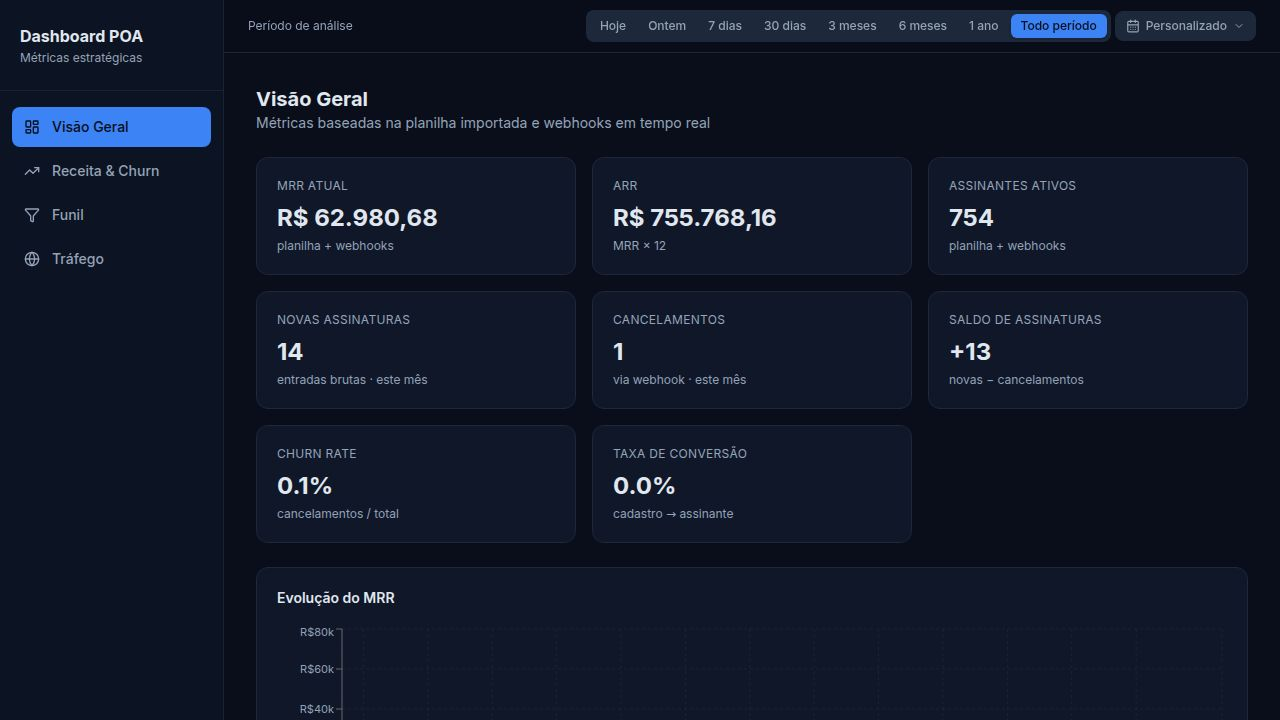
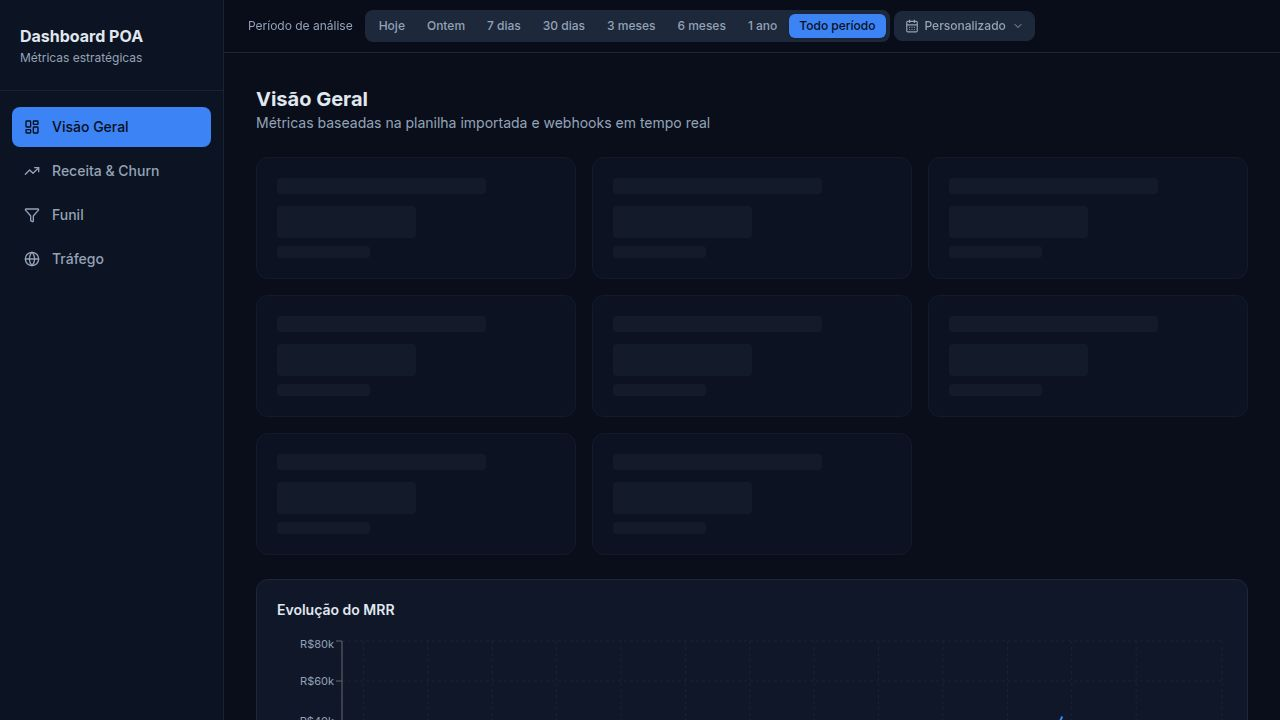
Improve dashboard usability and appearance on mobile devices
Update UI components and layout for enhanced mobile responsiveness, including a collapsible sidebar, horizontally scrollable elements, and adjusted card layouts.

Replit-Commit-Author: Agent
Replit-Commit-Session-Id: 1dc96fea-091c-44fa-9b36-eb0fa8ade81c
Replit-Commit-Checkpoint-Type: full_checkpoint
Replit-Commit-Event-Id: e012f599-3605-456d-950a-0a8acb6417d7
Replit-Commit-Screenshot-Url: https://storage.googleapis.com/screenshot-production-us-central1/f1076739-fb7f-4fb6-9d8d-a42dc68417ab/1dc96fea-091c-44fa-9b36-eb0fa8ade81c/fql3grY
Replit-Helium-Checkpoint-Created: true

diff --git a/artifacts/poa-dashboard/src/pages/Revenue.tsx b/artifacts/poa-dashboard/src/pages/Revenue.tsx
@@ -66,52 +66,52 @@ export default function Revenue() {
       )}
 
       {/* ── Summary row (image 1) ─────────────────────────────────── */}
-      <div className="grid grid-cols-1 md:grid-cols-3 gap-4">
-        <div className="bg-card border border-card-border rounded-xl p-6 flex flex-col items-center justify-center text-center gap-2">
+      <div className="grid grid-cols-1 sm:grid-cols-3 gap-3 sm:gap-4">
+        <div className="bg-card border border-card-border rounded-xl p-4 sm:p-6 flex flex-col items-center justify-center text-center gap-1 sm:gap-2">
           {isLoading ? (
             <div className="h-8 w-40 bg-muted rounded animate-pulse" />
           ) : (
             <>
-              <p className="text-xs font-semibold text-muted-foreground tracking-widest uppercase">MRR Total Adquirido</p>
-              <p className="text-3xl font-bold text-foreground tabular-nums">
+              <p className="text-[10px] sm:text-xs font-semibold text-muted-foreground tracking-widest uppercase">MRR Total Adquirido</p>
+              <p className="text-xl sm:text-3xl font-bold text-foreground tabular-nums">
                 {d ? formatBRL(d.totalRevenue) : "—"}
               </p>
-              <p className="text-xs text-muted-foreground">soma do MRR de todas as aquisições</p>
+              <p className="text-[10px] sm:text-xs text-muted-foreground">soma do MRR de todas as aquisições</p>
             </>
           )}
         </div>
 
-        <div className="bg-card border border-card-border rounded-xl p-6 flex flex-col items-center justify-center text-center gap-2">
+        <div className="bg-card border border-card-border rounded-xl p-4 sm:p-6 flex flex-col items-center justify-center text-center gap-1 sm:gap-2">
           {isLoading ? (
             <div className="h-8 w-24 bg-muted rounded animate-pulse" />
           ) : (
             <>
-              <p className="text-xs font-semibold text-muted-foreground tracking-widest uppercase">Assinantes Pagantes</p>
-              <p className="text-3xl font-bold text-foreground tabular-nums">
+              <p className="text-[10px] sm:text-xs font-semibold text-muted-foreground tracking-widest uppercase">Assinantes Pagantes</p>
+              <p className="text-xl sm:text-3xl font-bold text-foreground tabular-nums">
                 {d ? formatNumber(d.totalSubscribers) : "—"}
               </p>
-              <p className="text-xs text-muted-foreground">assinantes ativos</p>
+              <p className="text-[10px] sm:text-xs text-muted-foreground">assinantes ativos</p>
             </>
           )}
         </div>
 
-        <div className="bg-card border border-card-border rounded-xl p-6 flex flex-col items-center justify-center text-center gap-2">
+        <div className="bg-card border border-card-border rounded-xl p-4 sm:p-6 flex flex-col items-center justify-center text-center gap-1 sm:gap-2">
           {isLoading ? (
             <div className="h-8 w-32 bg-muted rounded animate-pulse" />
           ) : (
             <>
-              <p className="text-xs font-semibold text-muted-foreground tracking-widest uppercase">Média por Assinante</p>
-              <p className="text-3xl font-bold text-foreground tabular-nums">
+              <p className="text-[10px] sm:text-xs font-semibold text-muted-foreground tracking-widest uppercase">Média por Assinante</p>
+              <p className="text-xl sm:text-3xl font-bold text-foreground tabular-nums">
                 {d ? formatBRL(d.arpu) : "—"}
               </p>
-              <p className="text-xs text-muted-foreground">receita média mensal</p>
+              <p className="text-[10px] sm:text-xs text-muted-foreground">receita média mensal</p>
             </>
           )}
         </div>
       </div>
 
       {/* ── Churn KPIs ───────────────────────────────────────────── */}
-      <div className="grid grid-cols-2 xl:grid-cols-4 gap-4">
+      <div className="grid grid-cols-1 sm:grid-cols-2 xl:grid-cols-4 gap-3 sm:gap-4">
         <KPICard title="MRR Atual" value={d ? formatBRL(d.mrr) : "—"} loading={isLoading} error={!!hasError} errorMessage={errMsg} />
         <KPICard title="ARR Projetado" value={d ? formatBRL(d.arr) : "—"} loading={isLoading} error={!!hasError} errorMessage={errMsg} />
         <KPICard title="Cancelamentos no Período" value={d ? formatNumber(totalCancellations) : "—"} loading={isLoading} error={!!hasError} errorMessage={errMsg} invertChange />

diff --git a/artifacts/poa-dashboard/src/pages/Traffic.tsx b/artifacts/poa-dashboard/src/pages/Traffic.tsx
@@ -124,7 +124,7 @@ export default function Traffic() {
       )}
 
       {/* KPI Cards */}
-      <div className="grid grid-cols-2 lg:grid-cols-4 gap-4">
+      <div className="grid grid-cols-1 sm:grid-cols-2 lg:grid-cols-4 gap-3 sm:gap-4">
         <KPICard
           title="Total Pageviews"
           value={(d?.stats.pageviews ?? 0).toLocaleString("pt-BR")}
@@ -148,7 +148,7 @@ export default function Traffic() {
       </div>
 
       {/* Visitors Line Chart */}
-      <div className="rounded-xl border border-border bg-card p-6">
+      <div className="rounded-xl border border-border bg-card p-4 sm:p-6">
         <h3 className="text-sm font-semibold text-foreground mb-4">Visitantes ao longo do tempo</h3>
         {isLoading ? (
           <div className="h-64 flex items-center justify-center text-muted-foreground text-sm">Carregando…</div>
@@ -192,9 +192,9 @@ export default function Traffic() {
       </div>
 
       {/* Middle row: Top Pages + UTM Channels */}
-      <div className="grid grid-cols-1 lg:grid-cols-2 gap-4">
+      <div className="grid grid-cols-1 lg:grid-cols-2 gap-3 sm:gap-4">
         {/* Top Pages Table */}
-        <div className="rounded-xl border border-border bg-card p-6">
+        <div className="rounded-xl border border-border bg-card p-4 sm:p-6">
           <h3 className="text-sm font-semibold text-foreground mb-4">Top Páginas</h3>
           {isLoading ? (
             <div className="h-48 flex items-center justify-center text-muted-foreground text-sm">Carregando…</div>
@@ -233,7 +233,7 @@ export default function Traffic() {
         </div>
 
         {/* UTM Channels */}
-        <div className="rounded-xl border border-border bg-card p-6">
+        <div className="rounded-xl border border-border bg-card p-4 sm:p-6">
           <div className="flex items-center justify-between mb-4">
             <h3 className="text-sm font-semibold text-foreground">Canais de Aquisição</h3>
             <div className="flex gap-1">
@@ -287,7 +287,7 @@ export default function Traffic() {
       </div>
 
       {/* World Map */}
-      <div className="rounded-xl border border-border bg-card p-6">
+      <div className="rounded-xl border border-border bg-card p-4 sm:p-6">
         <div className="flex items-center justify-between mb-1">
           <div>
             <h3 className="text-sm font-semibold text-foreground">Visitantes por País</h3>
@@ -323,7 +323,7 @@ export default function Traffic() {
             </button>
           </div>
         </div>
-        <div className="w-full overflow-hidden rounded-lg" style={{ height: 440 }}>
+        <div className="w-full overflow-hidden rounded-lg h-[260px] sm:h-[360px] lg:h-[440px]">
           <ComposableMap
             projectionConfig={{ scale: 160 }}
             style={{ width: "100%", height: "100%" }}
@@ -384,13 +384,13 @@ export default function Traffic() {
       </div>
 
       {/* Hourly Heatmap — 7 days × 24 hours */}
-      <div className="rounded-xl border border-border bg-card p-6">
+      <div className="rounded-xl border border-border bg-card p-4 sm:p-6">
         <h3 className="text-sm font-semibold text-foreground mb-1">Horários de Pico</h3>
         <p className="text-xs text-muted-foreground mb-4">Pageviews por dia da semana e hora (horário de Brasília)</p>
         {isLoading ? (
           <div className="h-32 flex items-center justify-center text-muted-foreground text-sm">Carregando…</div>
         ) : (
-          <div className="overflow-x-auto">
+          <div className="overflow-x-auto scrollbar-hide">
             <div className="min-w-max">
               {/* Hour labels row */}
               <div className="flex gap-px mb-px ml-9">

diff --git a/artifacts/poa-dashboard/src/components/Sidebar.tsx b/artifacts/poa-dashboard/src/components/Sidebar.tsx
@@ -1,5 +1,6 @@
+import { useState, useEffect } from "react";
 import { Link, useLocation } from "wouter";
-import { LayoutDashboard, TrendingUp, Funnel, Globe, Settings } from "lucide-react";
+import { LayoutDashboard, TrendingUp, Funnel, Globe, Settings, Menu, X } from "lucide-react";
 
 const navItems = [
   { label: "Visão Geral", href: "/", icon: LayoutDashboard },
@@ -8,11 +9,11 @@ const navItems = [
   { label: "Tráfego", href: "/traffic", icon: Globe },
 ];
 
-export function Sidebar() {
+function SidebarContent({ onNavigate }: { onNavigate?: () => void }) {
   const [location] = useLocation();
 
   return (
-    <aside className="w-56 min-h-screen bg-sidebar border-r border-sidebar-border flex flex-col">
+    <>
       <div className="px-5 py-6 border-b border-sidebar-border">
         <h1 className="text-base font-bold text-foreground">Dashboard POA</h1>
         <p className="text-xs text-muted-foreground mt-0.5">Métricas estratégicas</p>
@@ -25,6 +26,7 @@ export function Sidebar() {
             <Link
               key={item.href}
               href={item.href}
+              onClick={onNavigate}
               className={`flex items-center gap-3 px-3 py-2.5 rounded-lg text-sm font-medium transition-colors ${
                 isActive
                   ? "bg-primary text-primary-foreground"
@@ -40,6 +42,7 @@ export function Sidebar() {
       <div className="px-3 pb-4 border-t border-sidebar-border pt-3">
         <Link
           href="/admin"
+          onClick={onNavigate}
           className={`flex items-center gap-3 px-3 py-2.5 rounded-lg text-sm font-medium transition-colors ${
             location === "/admin"
               ? "bg-primary text-primary-foreground"
@@ -50,6 +53,62 @@ export function Sidebar() {
           Admin
         </Link>
       </div>
+    </>
+  );
+}
+
+export function MobileMenuButton({ onClick }: { onClick: () => void }) {
+  return (
+    <button
+      onClick={onClick}
+      className="md:hidden p-1.5 -ml-1 rounded-md text-muted-foreground hover:text-foreground hover:bg-sidebar-accent transition-colors"
+      aria-label="Menu"
+    >
+      <Menu className="w-5 h-5" />
+    </button>
+  );
+}
+
+export function MobileDrawer({ open, onClose }: { open: boolean; onClose: () => void }) {
+  useEffect(() => {
+    if (open) {
+      document.body.style.overflow = "hidden";
+    } else {
+      document.body.style.overflow = "";
+    }
+    return () => { document.body.style.overflow = ""; };
+  }, [open]);
+
+  return (
+    <>
+      <div
+        className={`fixed inset-0 z-40 bg-black/50 transition-opacity md:hidden ${
+          open ? "opacity-100" : "opacity-0 pointer-events-none"
+        }`}
+        onClick={onClose}
+      />
+      <aside
+        className={`fixed inset-y-0 left-0 z-50 w-64 bg-sidebar flex flex-col transition-transform duration-200 md:hidden ${
+          open ? "translate-x-0" : "-translate-x-full"
+        }`}
+      >
+        <button
+          onClick={onClose}
+          className="absolute top-4 right-3 p-1 rounded-md text-muted-foreground hover:text-foreground"
+          aria-label="Fechar"
+        >
+          <X className="w-5 h-5" />
+        </button>
+        <SidebarContent onNavigate={onClose} />
+      </aside>
+    </>
+  );
+}
+
+export function Sidebar() {
+  return (
+    <aside className="hidden md:flex w-56 min-h-screen bg-sidebar border-r border-sidebar-border flex-col">
+      <SidebarContent />
     </aside>
   );
 }

diff --git a/artifacts/poa-dashboard/src/pages/Funnel.tsx b/artifacts/poa-dashboard/src/pages/Funnel.tsx
@@ -211,7 +211,7 @@ export default function Funnel() {
       </div>
 
       {/* KPI Cards */}
-      <div className="grid grid-cols-2 xl:grid-cols-4 gap-4">
+      <div className="grid grid-cols-1 sm:grid-cols-2 xl:grid-cols-4 gap-3 sm:gap-4">
         <KPICard title="Cadastros Gratuitos" value={f ? formatNumber(f.totalRegistrations) : "—"} subtitle="com tag Free-Trial" loading={isLoading} error={!!hasError} errorMessage={errMsg} />
         <KPICard title="Conversões" value={f ? formatNumber(f.totalConversions) : "—"} subtitle="tornaram-se assinantes" loading={isLoading} error={!!hasError} errorMessage={errMsg} />
         <KPICard title="Taxa de Conversão" value={f ? formatPct(f.conversionRate) : "—"} loading={isLoading} error={!!hasError} errorMessage={errMsg} />
@@ -219,7 +219,7 @@ export default function Funnel() {
       </div>
 
       {/* Cadastros vs. Conversões (mensal) — estilo Evolução Mensal */}
-      <div className="bg-card border border-card-border rounded-xl p-5">
+      <div className="bg-card border border-card-border rounded-xl p-4 sm:p-5">
         <div className="mb-4">
           <h2 className="text-sm font-semibold text-foreground">Cadastros vs. Conversões (mensal)</h2>
           <p className="text-xs text-muted-foreground mt-0.5">Free-Trial a partir de Mar/2026</p>
@@ -265,8 +265,8 @@ export default function Funnel() {
       </div>
 
       {/* Novos Leads por Dia + Tempo até Conversão */}
-      <div className="grid grid-cols-1 xl:grid-cols-2 gap-4">
-        <div className="bg-card border border-card-border rounded-xl p-5">
+      <div className="grid grid-cols-1 xl:grid-cols-2 gap-3 sm:gap-4">
+        <div className="bg-card border border-card-border rounded-xl p-4 sm:p-5">
           <div className="flex items-center justify-between mb-4">
             <h2 className="text-sm font-semibold text-foreground">Novos Leads</h2>
             <div className="flex gap-1">
@@ -315,7 +315,7 @@ export default function Funnel() {
           )}
         </div>
 
-        <div className="bg-card border border-card-border rounded-xl p-5">
+        <div className="bg-card border border-card-border rounded-xl p-4 sm:p-5">
           <h2 className="text-sm font-semibold text-foreground mb-4">Tempo até Conversão</h2>
           {isLoading ? <div className="h-52 bg-muted rounded animate-pulse" /> : (
             <ResponsiveContainer width="100%" height={210}>
@@ -332,7 +332,7 @@ export default function Funnel() {
       </div>
 
       {/* Taxa de Conversão por Origem UTM */}
-      <div className="bg-card border border-card-border rounded-xl p-5">
+      <div className="bg-card border border-card-border rounded-xl p-4 sm:p-5">
         <h2 className="text-sm font-semibold text-foreground mb-4">Taxa de Conversão por Origem UTM</h2>
         {leadsLoading ? (
           <div className="h-32 bg-muted rounded animate-pulse" />
@@ -377,7 +377,7 @@ export default function Funnel() {
       </div>
 
       {/* Leads por Origem UTM × Mês */}
-      <div className="bg-card border border-card-border rounded-xl p-5">
+      <div className="bg-card border border-card-border rounded-xl p-4 sm:p-5">
         <h2 className="text-sm font-semibold text-foreground mb-1">Leads por Origem UTM × Mês</h2>
         <p className="text-xs text-muted-foreground mb-4">
           Clique em uma origem para expandir por mídia (utm_medium) — exclusivo tag Free-Trial, a partir de março/2026

diff --git a/artifacts/poa-dashboard/src/components/KPICard.tsx b/artifacts/poa-dashboard/src/components/KPICard.tsx
@@ -14,7 +14,7 @@ interface KPICardProps {
 export function KPICard({ title, value, change, subtitle, loading, error, errorMessage, invertChange }: KPICardProps) {
   if (loading) {
     return (
-      <div className="bg-card border border-card-border rounded-xl p-5 animate-pulse">
+      <div className="bg-card border border-card-border rounded-xl p-3 sm:p-5 animate-pulse">
         <div className="h-4 bg-muted rounded w-3/4 mb-3" />
         <div className="h-8 bg-muted rounded w-1/2 mb-2" />
         <div className="h-3 bg-muted rounded w-1/3" />
@@ -24,7 +24,7 @@ export function KPICard({ title, value, change, subtitle, loading, error, errorM
 
   if (error) {
     return (
-      <div className="bg-card border border-card-border rounded-xl p-5">
+      <div className="bg-card border border-card-border rounded-xl p-3 sm:p-5">
         <p className="text-xs text-muted-foreground mb-1">{title}</p>
         <p className="text-sm text-destructive">{errorMessage ?? "Erro ao carregar"}</p>
       </div>
@@ -39,9 +39,9 @@ export function KPICard({ title, value, change, subtitle, loading, error, errorM
   const badChange = invertChange ? isPositive : isNegative;
 
   return (
-    <div className="bg-card border border-card-border rounded-xl p-5">
-      <p className="text-xs text-muted-foreground uppercase tracking-wide mb-2">{title}</p>
-      <p className="text-2xl font-bold text-foreground mb-1">{value}</p>
+    <div className="bg-card border border-card-border rounded-xl p-3 sm:p-5">
+      <p className="text-[10px] sm:text-xs text-muted-foreground uppercase tracking-wide mb-1 sm:mb-2">{title}</p>
+      <p className="text-lg sm:text-2xl font-bold text-foreground mb-1 truncate">{value}</p>
       <div className="flex items-center gap-1.5">
         {!isNeutral && (
           <span className={`flex items-center gap-0.5 text-xs font-medium ${goodChange ? "text-[#22c55e]" : badChange ? "text-[#ef4444]" : "text-muted-foreground"}`}>

diff --git a/artifacts/poa-dashboard/src/App.tsx b/artifacts/poa-dashboard/src/App.tsx
@@ -1,6 +1,7 @@
+import { useState } from "react";
 import { Switch, Route, Router as WouterRouter } from "wouter";
 import { QueryClient, QueryClientProvider } from "@tanstack/react-query";
-import { Sidebar } from "@/components/Sidebar";
+import { Sidebar, MobileMenuButton, MobileDrawer } from "@/components/Sidebar";
 import { GlobalPeriodSelector } from "@/components/GlobalPeriodSelector";
 import { PeriodProvider } from "@/context/PeriodContext";
 import Overview from "@/pages/Overview";
@@ -27,15 +28,21 @@ function NotFound() {
 }
 
 function Layout() {
+  const [mobileOpen, setMobileOpen] = useState(false);
+
   return (
     <div className="flex min-h-screen bg-background">
       <Sidebar />
+      <MobileDrawer open={mobileOpen} onClose={() => setMobileOpen(false)} />
       <div className="flex-1 flex flex-col overflow-hidden">
-        <header className="sticky top-0 z-20 bg-background/95 backdrop-blur-sm border-b border-border px-6 py-2.5 flex items-center justify-between gap-4 shrink-0">
-          <span className="text-xs text-muted-foreground hidden sm:block">Período de análise</span>
-          <GlobalPeriodSelector />
+        <header className="sticky top-0 z-20 bg-background/95 backdrop-blur-sm border-b border-border px-3 sm:px-6 py-2.5 flex items-center gap-3 shrink-0">
+          <MobileMenuButton onClick={() => setMobileOpen(true)} />
+          <span className="text-xs text-muted-foreground hidden lg:block shrink-0">Período de análise</span>
+          <div className="flex-1 overflow-x-auto scrollbar-hide">
+            <GlobalPeriodSelector />
+          </div>
         </header>
-        <main className="flex-1 overflow-auto p-8">
+        <main className="flex-1 overflow-auto p-4 sm:p-6 lg:p-8">
           <Switch>
             <Route path="/" component={Overview} />
             <Route path="/revenue" component={Revenue} />

diff --git a/artifacts/poa-dashboard/src/components/GlobalPeriodSelector.tsx b/artifacts/poa-dashboard/src/components/GlobalPeriodSelector.tsx
@@ -52,9 +52,8 @@ export function GlobalPeriodSelector() {
   const isCustomActive = period === "custom";
 
   return (
-    <div className="flex items-center gap-1 flex-wrap">
-      {/* Quick period buttons */}
-      <div className="flex items-center gap-0.5 bg-secondary rounded-lg p-1 flex-wrap">
+    <div className="flex items-center gap-1 min-w-0">
+      <div className="flex items-center gap-0.5 bg-secondary rounded-lg p-1">
         {QUICK_OPTIONS.map((opt) => (
           <button
             key={opt}

diff --git a/artifacts/poa-dashboard/src/pages/Overview.tsx b/artifacts/poa-dashboard/src/pages/Overview.tsx
@@ -60,7 +60,7 @@ export default function Overview() {
         <p className="text-sm text-muted-foreground">Métricas baseadas na planilha importada e webhooks em tempo real</p>
       </div>
 
-      <div className="grid grid-cols-2 xl:grid-cols-3 gap-4">
+      <div className="grid grid-cols-1 sm:grid-cols-2 xl:grid-cols-3 gap-3 sm:gap-4">
         <KPICard
           title="MRR Atual"
           value={d ? formatBRL(d.mrr) : "—"}

diff --git a/artifacts/poa-dashboard/src/index.css b/artifacts/poa-dashboard/src/index.css
@@ -183,3 +183,13 @@
     @apply font-sans antialiased bg-background text-foreground;
   }
 }
+
+@layer utilities {
+  .scrollbar-hide {
+    -ms-overflow-style: none;
+    scrollbar-width: none;
+  }
+  .scrollbar-hide::-webkit-scrollbar {
+    display: none;
+  }
+}
